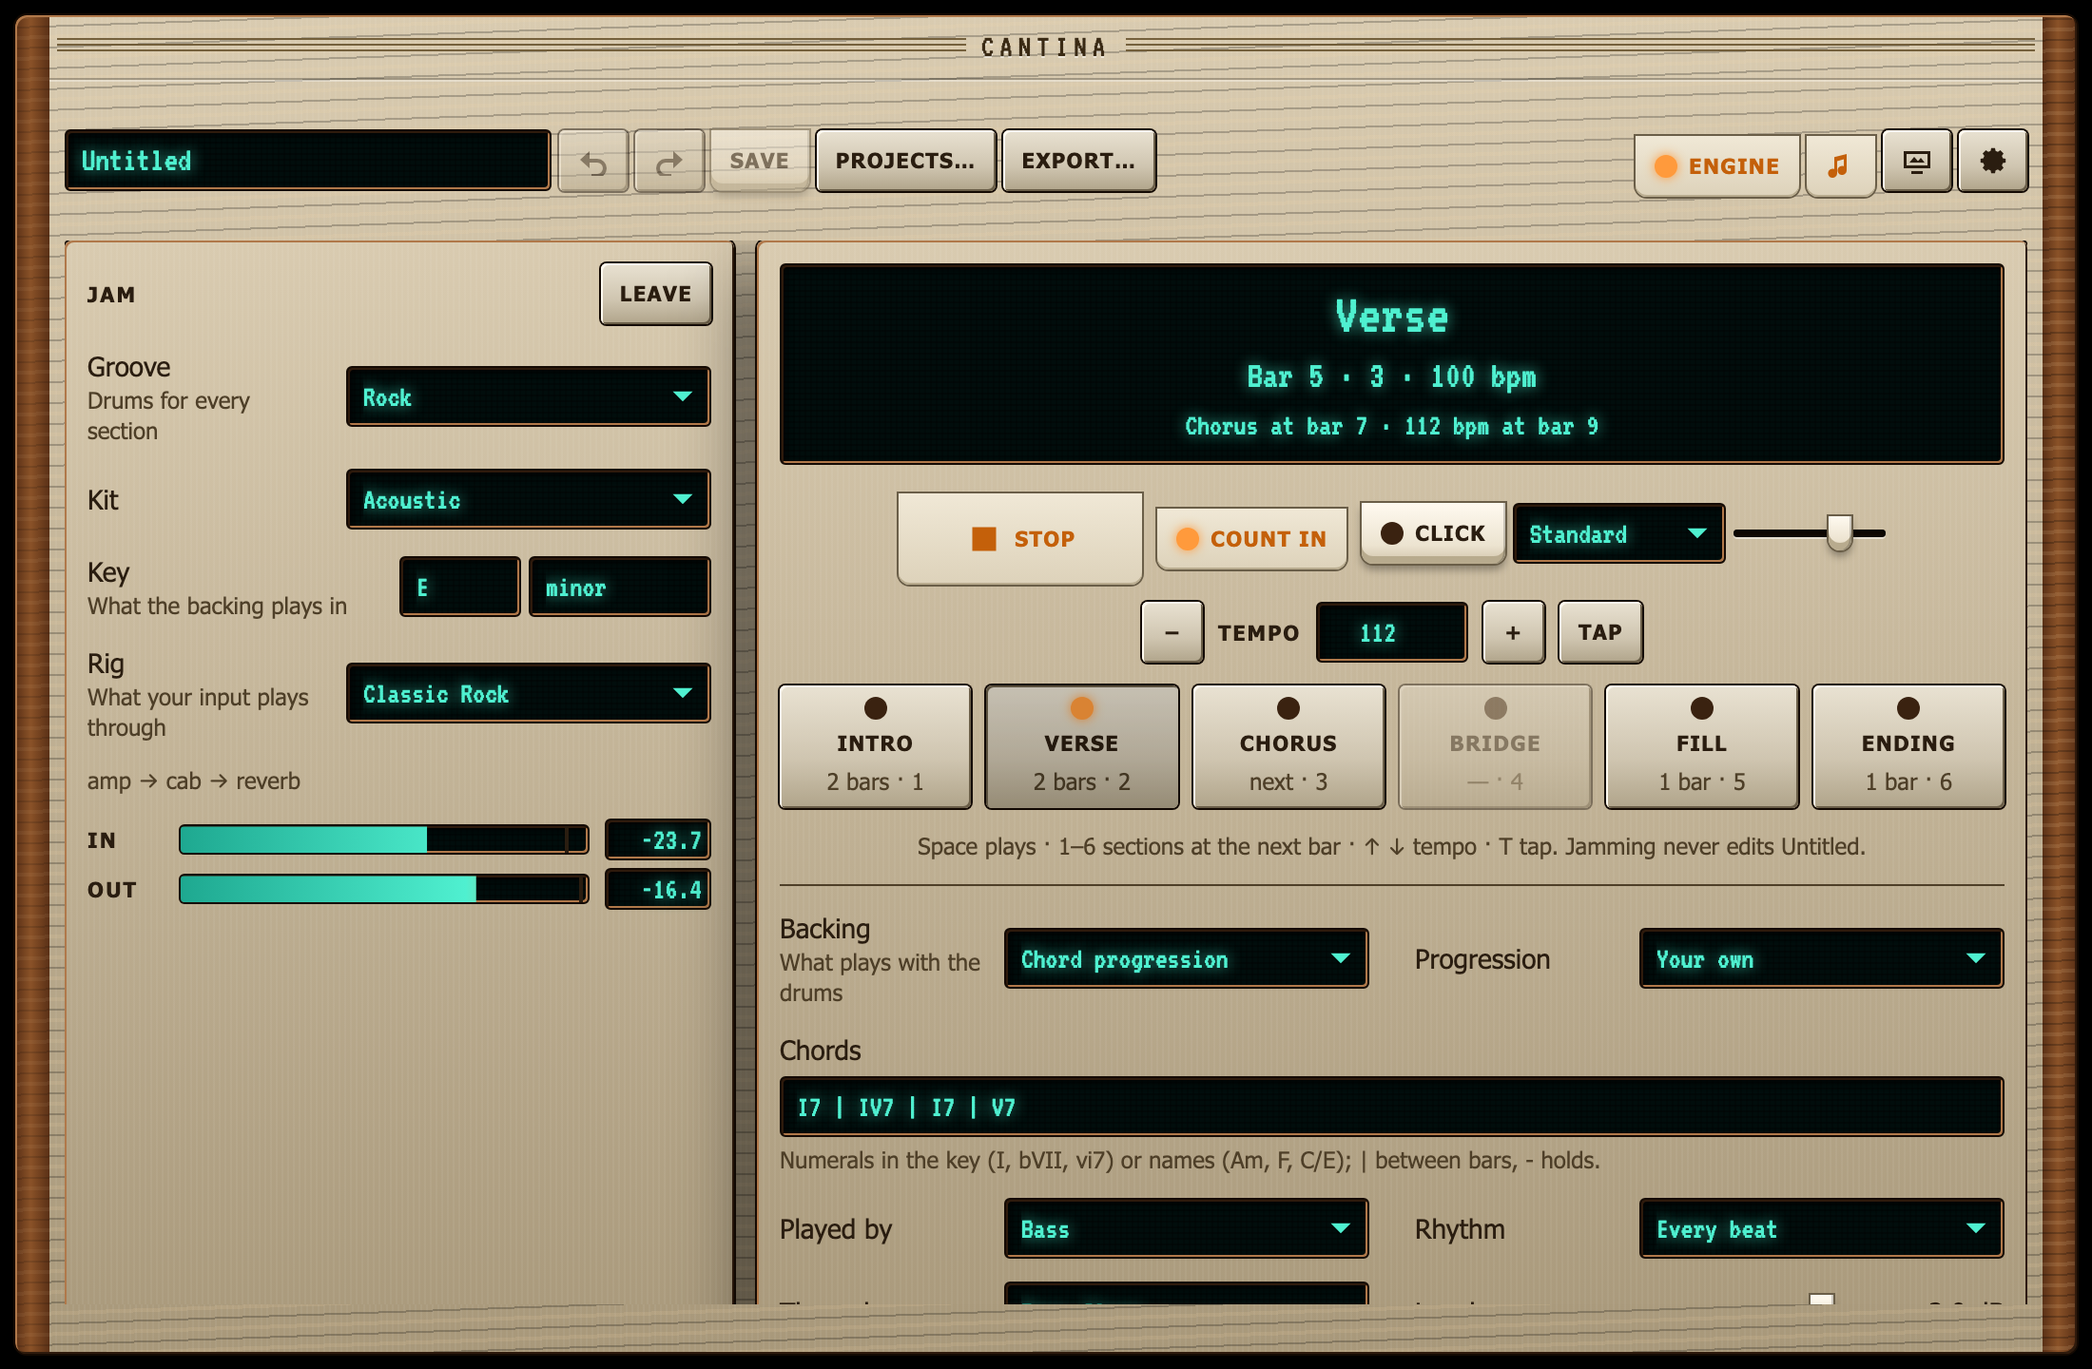
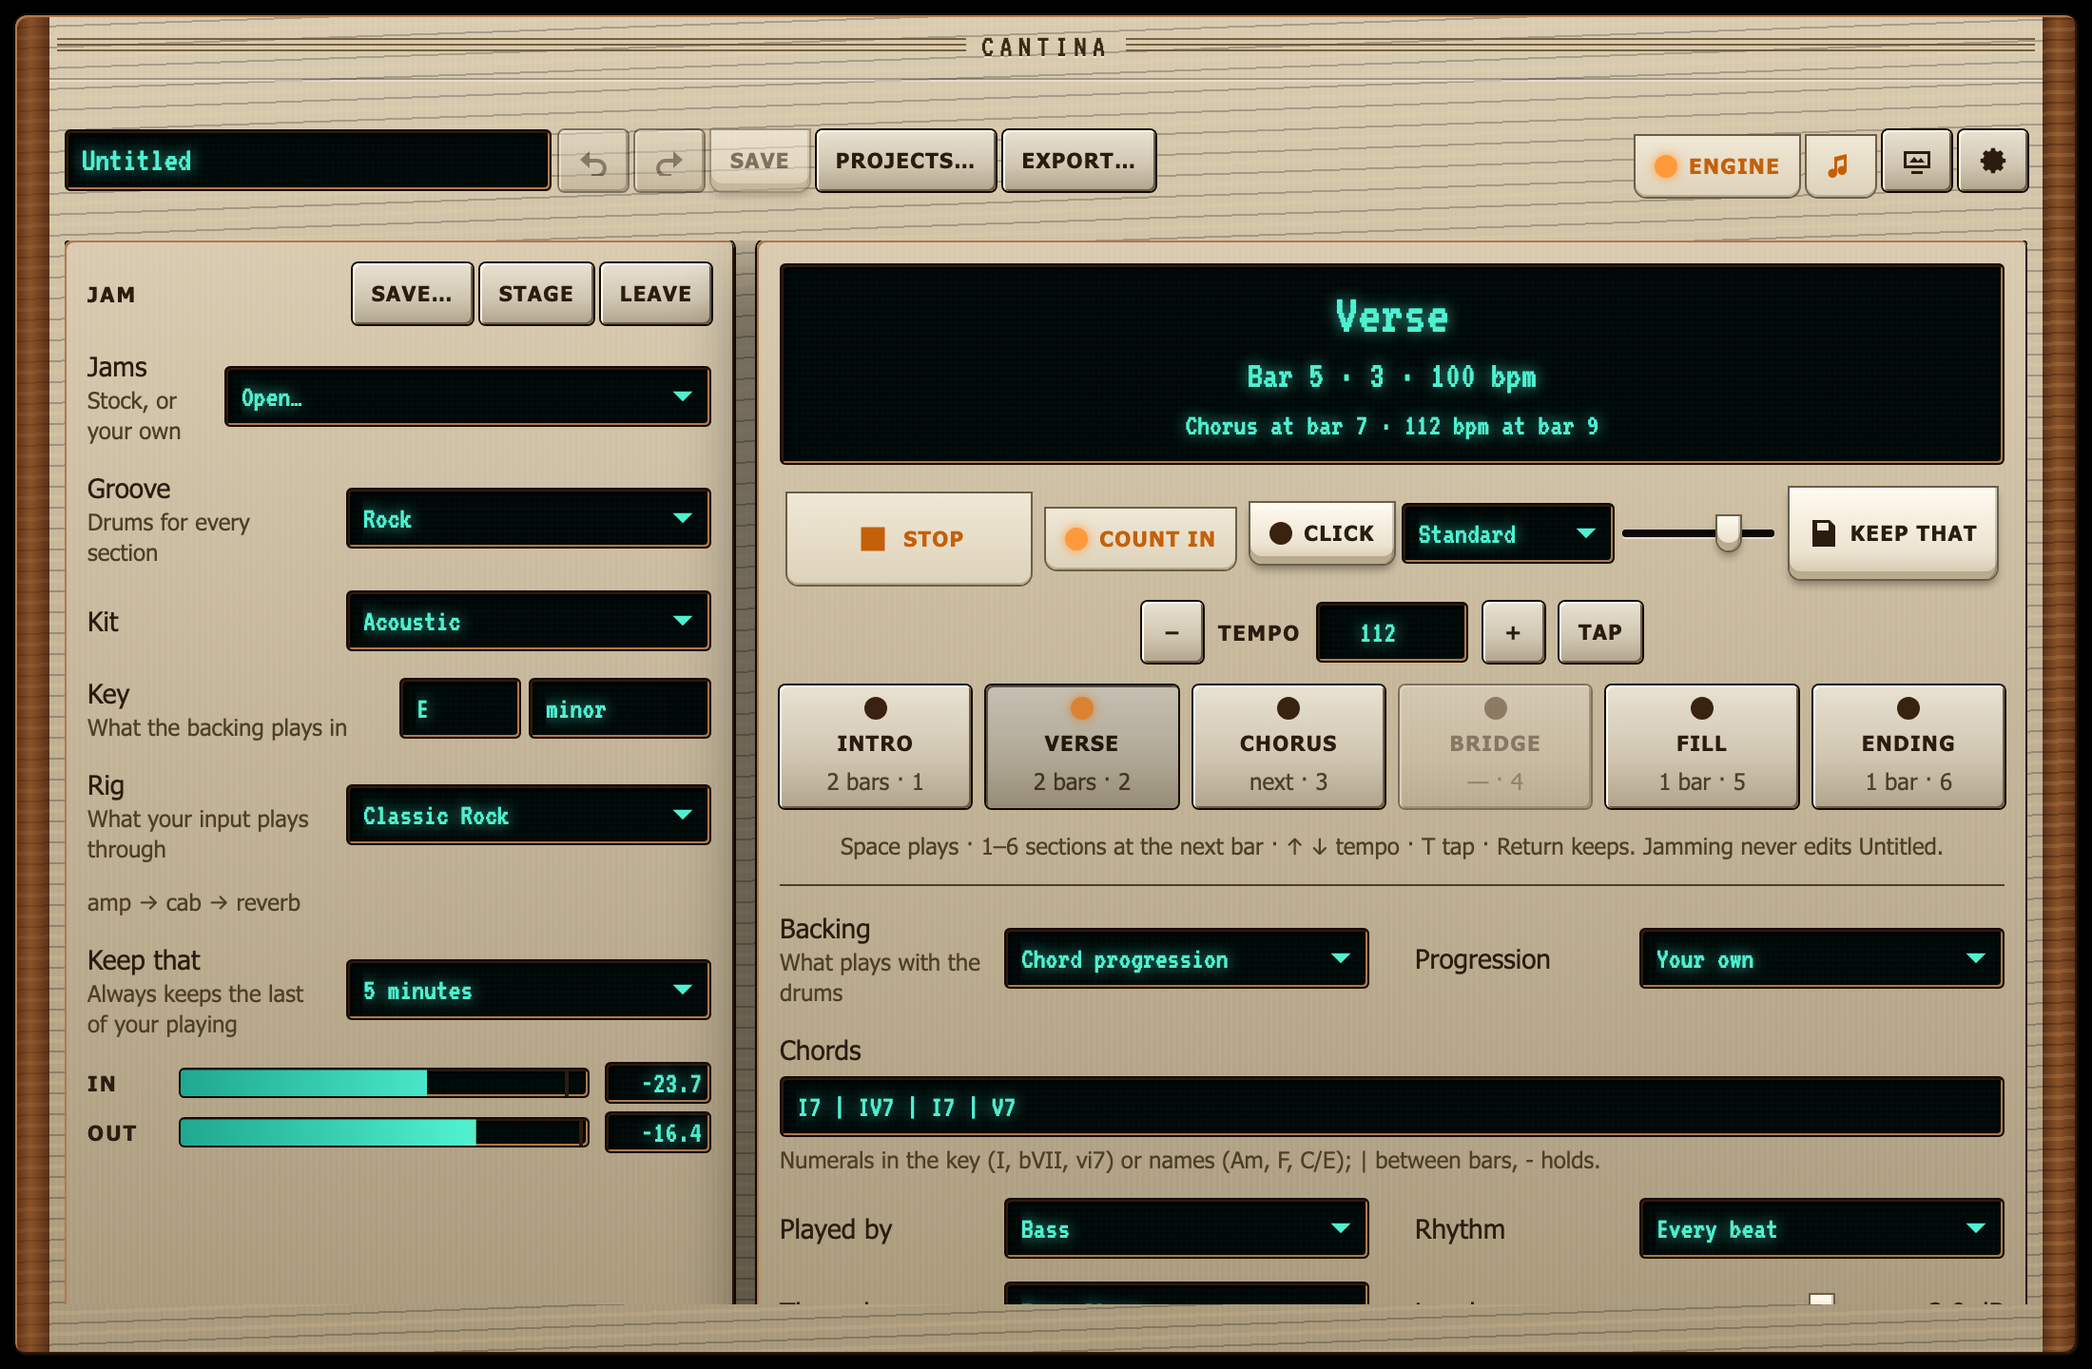
docs(jam): the jam guide, finished (#200) (#256)
* feat(jam): jam on stage (#199)

Performance mode from the Jam view (Stage, or P) shows the jam's
controls over the scene in place of the pedalboard: play, where the jam
is and what is coming, the sections and the tempo. The Jam view's keys
keep working underneath; arrows and number keys are not taken by the
stage while jamming. Scenes pulse on the jam's beat, which the pump
reads from the same tempo map the jam hands the transport; a test
shows the beat lands on every beat to within a sample through a tempo
change. The stand-in's beat follows the jam too.

Claude-Session: https://claude.ai/code/session_01Weyxkote2xscWSN2LNQZGG

* docs(jam): the jam guide, finished (#200)

The guide in the order a player meets jam mode: opening it, a first
jam in six steps, setting it up, playing, sections, tempo, backing and
chord progressions, saving and opening jams with the stock jams by
name, Keep that, jam on stage, and every key in one table. Both Jam
view screenshots are retaken on the finished view. Getting started,
the drums guide and the rigs guide point to it.

Claude-Session: https://claude.ai/code/session_01Weyxkote2xscWSN2LNQZGG

* docs(jam): put back the guide's front matter

Claude-Session: https://claude.ai/code/session_01Weyxkote2xscWSN2LNQZGG

---------

Changed region(s): [[0.0309, 0.1875, 0.34, 0.8438], [0.3709, 0.3438, 0.9582, 0.4375], [0.4018, 0.5938, 0.9273, 0.625]]

diff --git a/docs/src/content/docs/guides/jam.md b/docs/src/content/docs/guides/jam.md
@@ -4,9 +4,10 @@ description: "Jam mode is a practice room, on stage too: stock jams and your own
 ---
 
 Practising should not mean setting up a project, tracks and clips. Jam
-mode is a room of its own: pick a groove, something to play over, a
-tempo, the key and the rig you play through, press **Play** and jam. It goes on until you stop it,
-and you change section and tempo as you go without stopping.
+mode is a room of its own: drums, something to play over, a tempo, a key
+and the rig you play through. Press **Play** and it goes on until you
+stop it; change section and tempo as you go, and when you play something
+worth having, **Keep that** saves the last minutes you played.
 
 Jamming never edits the project. The jam is heard *instead of* the
 project while it is open, and when you leave, the project is heard again
@@ -15,11 +16,24 @@ with its playhead where it was.
 ## Opening it
 
 Press the **Jam** button (the note) in the title bar, choose
-**View ▸ Jam**, or press **J**. Press **Leave**, **J** again or choose
-**View ▸ Arrange** to go back to the project. The jam you had last comes
+**View ▸ Jam**, or press **J**. **Leave**, **J** again or
+**View ▸ Arrange** goes back to the project. The jam you had last comes
 back the next time you open it, tempo and all.
 
-![The Jam view: groove, kit, key and rig on the left with the meters; the display, play, count-in and click, tempo, the six sections and the backing on the right](../../../assets/guides/jam.png)
+![The Jam view: the jams, groove, kit, key, rig and Keep that length on the left with the meters; the display, play, count-in, click, Keep that, tempo, the six sections and the backing on the right](../../../assets/guides/jam.png)
+
+## A first jam
+
+1. Open the **Jams** list at the top and pick a stock jam for a style
+   you play, say *Blues in A*. It sets the drums, a bass playing the
+   changes, the tempo, the key and a rig for your guitar.
+2. Press **Play** (or **Space**). With **Count in** on, the click counts
+   a bar, the intro plays, and the verse goes round.
+3. Press **3** for the chorus, **5** for a fill, **2** for the verse
+   again: each lands on the next bar line.
+4. Nudge the tempo with **↑** and **↓**.
+5. Played something good? Press **Return** to keep it.
+6. **6** plays the ending and stops.
 
 ## Setting it up
 
@@ -38,47 +52,50 @@ back the next time you open it, tempo and all.
 
 The meters show your input and what comes out.
 
-## Jams: saving and opening
+## Playing
 
-The **Jams** list at the top opens a jam: one of the stock jams, a
-groove, a backing, a tempo, a key and a rig for each common style, or
-one of yours. Opening one replaces the jam playing; the music goes on,
-with a new tempo from the next bar.
+**Play** (or **Space**) starts the jam from the top: from the intro when
+the groove has one, then the verse. With **Count in** on, the click
+counts a bar first. **Click** turns the metronome on for the whole jam.
+**Stop** (or **Space** again) stops and goes back to the top.
 
-**Save…** writes the jam as it is (groove, backing, progression, tempo,
-key and rig) to `~/Music/Cantina/Jams/<name>.jam.json` with a name, a
-genre and a line on it. It then shows under *Yours*. Saving under a
-name you already have replaces that jam; the stock jams are never
-changed. A jam file dropped into that folder appears in the list within
-a second, and one that does not load is listed with the reason, as
-other library files are. The [jam format](/reference/jam-format/)
-describes the file, so you, or a [coding agent](/guides/agents/), can
-write one.
+![Jamming in the Hi-fi skin with a bass playing a blues: the verse at bar 5, the chorus coming at bar 7 and 112 bpm at bar 9](../../../assets/guides/jam-playing.png)
 
-![Save jam, with a name, genre and description, in the Toxic skin](../../../assets/guides/jam-save.png)
+The display shows the section playing, the bar and beat, the tempo, and
+what is coming: a section or a tempo you asked for, and the bar it lands
+on.
 
-The stock jams:
+## Sections
 
-| Jam | Groove | Tempo | Key | Rig | Backing |
-| --- | --- | --- | --- | --- | --- |
-| Alternative in G | Alternative | 112 | G major | alternative | guitar, `I \| V \| vi \| IV` |
-| Grunge in E | Grunge | 100 | E minor | grunge | bass, `i \| bIII \| bVII \| IV` |
-| Slow Burn in D | Half-time | 80 | D minor | shoegaze | guitar, `i \| bVI \| bIII \| bVII` |
-| Blues in A | Blues shuffle | 96 | A major | blues | bass, the 12-bar blues |
-| Minor Blues in E | Blues shuffle | 78 | E minor | blues | bass, the minor blues |
-| Country in G | Rock | 112 | G major | country | bass, `I \| IV \| I \| V` |
-| Funk in E | Funk | 100 | E minor | funk-clean | bass, `i7 \| i7 \| IV7 \| IV7` |
-| Hip-hop in C | Hip-hop | 90 | C minor | jazz-clean | bass, `i7 \| bVImaj7 \| iv7 \| V7` |
-| Jazz in B♭ | Jazz | 140 | B♭ major | jazz-clean | bass, `ii7 \| V7 \| Imaj7 \| Imaj7` |
-| Djent in B | Djent | 120 | B minor | djent | bass, `i5 \| i5 \| bII5 \| i5` |
-| Heavy Metal in E | Heavy metal | 152 | E minor | heavy-metal | bass, `i5 \| bVI5 \| bVII5 \| i5` |
-| Metalcore in D | Metalcore | 140 | D minor | metalcore | bass, `i5 \| bVI5 \| bIII5 \| bVII5` |
-| Thrash in E | Thrash | 200 | E minor | thrash | bass, `i5 \| i5 \| bII5 \| i5` |
-| Pop in C | Pop | 108 | C major | alternative | guitar, `I \| V \| vi \| IV` |
-| Punk in D | Punk | 184 | D major | punk | bass, `I5 \| IV5 \| V5 \| IV5` |
-| Reggae in A | Reggae | 76 | A major | funk-clean | bass, `I \| IV \| I \| V` |
-| Hard Rock in A | Hard rock | 132 | A major | hard-rock | bass, `I5 \| I5 \| bVII5 \| IV5` |
-| Rock in E | Rock | 120 | E major | classic-rock | bass, `I \| bVII \| IV \| I` |
+Press a section, or a number key, to play it from the next bar:
+
+| Key | Section | Plays |
+| --- | --- | --- |
+| 1 | Intro | Once, then the verse |
+| 2 | Verse | Round and round |
+| 3 | Chorus | Round and round |
+| 4 | Bridge | Round and round |
+| 5 | Fill | Once, then back to the section it interrupted |
+| 6 | Ending | Once, then the jam stops |
+
+The change lands exactly on the bar line, to the sample, however close
+to it you press, as long as there is a moment to spare: pressed in the
+last few hundredths of a second of a bar, it waits for the bar after.
+Pressing another section before the bar arrives replaces the one that
+was coming. A section the groove has no pattern for is greyed out.
+
+While stopped, pressing a section makes the jam start with it, and so
+does pressing one during the count-in, up to its last beat.
+
+## Tempo
+
+**−** and **+** (or **↓** and **↑**) nudge the tempo a beat per minute;
+with **⇧** by five. Type a tempo into the field, or press **Tap** (or
+**T**) on the beat: two taps or more set it, and a pause of two seconds
+starts a new count. While the jam plays, a new tempo lands on the next
+bar line, like a section. The drums, a chord backing and the click
+follow it at once and nothing clicks. With an audio backing the tempo
+is the backing's.
 
 ## Backing
 
@@ -151,50 +168,47 @@ The presets:
 | Hip-hop | Minor loop |
 | Country | I–IV–I–V |
 
-## Playing
+## Jams: saving and opening
 
-**Play** (or **Space**) starts the jam from the top: from the intro when
-the groove has one, then the verse. With **Count in** on, the click
-counts a bar first. **Click** turns the metronome on for the whole jam.
-**Stop** (or **Space** again) stops and goes back to the top.
+The **Jams** list at the top opens a jam: one of the stock jams, a
+groove, a backing, a tempo, a key and a rig for each common style, or
+one of yours. Opening one replaces the jam playing; the music goes on,
+with a new tempo from the next bar.
 
-![Jamming in the Hi-fi skin with a bass playing a blues: the verse at bar 5, the chorus coming at bar 7 and 112 bpm at bar 9](../../../assets/guides/jam-playing.png)
+**Save…** writes the jam as it is (groove, backing, progression, tempo,
+key and rig) to `~/Music/Cantina/Jams/<name>.jam.json` with a name, a
+genre and a line on it. It then shows under *Yours*. Saving under a
+name you already have replaces that jam; the stock jams are never
+changed. A jam file dropped into that folder appears in the list within
+a second, and one that does not load is listed with the reason, as
+other library files are. The [jam format](/reference/jam-format/)
+describes the file, so you, or a [coding agent](/guides/agents/), can
+write one.
 
-The display shows the section playing, the bar and beat, the tempo, and
-what is coming: a section or a tempo you asked for, and the bar it lands
-on.
+![Save jam, with a name, genre and description, in the Toxic skin](../../../assets/guides/jam-save.png)
 
-## Sections
+The stock jams:
 
-Press a section, or a number key, to play it from the next bar:
-
-| Key | Section | Plays |
-| --- | --- | --- |
-| 1 | Intro | Once, then the verse |
-| 2 | Verse | Round and round |
-| 3 | Chorus | Round and round |
-| 4 | Bridge | Round and round |
-| 5 | Fill | Once, then back to the section it interrupted |
-| 6 | Ending | Once, then the jam stops |
-
-The change lands exactly on the bar line, to the sample, however close
-to it you press, as long as there is a moment to spare: pressed in the
-last few hundredths of a second of a bar, it waits for the bar after.
-Pressing another section before the bar arrives replaces the one that
-was coming. A section the groove has no pattern for is greyed out.
-
-While stopped, pressing a section makes the jam start with it, and so
-does pressing one during the count-in, up to its last beat.
-
-## Tempo
-
-**−** and **+** (or **↓** and **↑**) nudge the tempo a beat per minute;
-with **⇧** by five. Type a tempo into the field, or press **Tap** (or
-**T**) on the beat: two taps or more set it, and a pause of two seconds
-starts a new count. While the jam plays, a new tempo lands on the next
-bar line, like a section. The drums, a chord backing and the click
-follow it at once and nothing clicks. With an audio backing the tempo
-is the backing's.
+| Jam | Style | Groove | Tempo | Key | Rig | Backing |
+| --- | --- | --- | --- | --- | --- | --- |
+| Alternative in G | Alternative | Alternative | 112 | G major | alternative | guitar, `I \| V \| vi \| IV` |
+| Blues in A | Blues | Blues shuffle | 96 | A major | blues | bass, the 12-bar blues |
+| Country in G | Country | Rock | 112 | G major | country | bass, `I \| IV \| I \| V` |
+| Djent in B | Metal | Djent | 120 | B minor | djent | bass, `i5 \| i5 \| bII5 \| i5` |
+| Funk in E | Funk | Funk | 100 | E minor | funk-clean | bass, `i7 \| i7 \| IV7 \| IV7` |
+| Grunge in E | Alternative | Grunge | 100 | E minor | grunge | bass, `i \| bIII \| bVII \| IV` |
+| Hard Rock in A | Rock | Hard rock | 132 | A major | hard-rock | bass, `I5 \| I5 \| bVII5 \| IV5` |
+| Heavy Metal in E | Metal | Heavy metal | 152 | E minor | heavy-metal | bass, `i5 \| bVI5 \| bVII5 \| i5` |
+| Hip-hop in C | Hip-hop | Hip-hop | 90 | C minor | jazz-clean | bass, `i7 \| bVImaj7 \| iv7 \| V7` |
+| Jazz in B♭ | Jazz | Jazz | 140 | B♭ major | jazz-clean | bass, `ii7 \| V7 \| Imaj7 \| Imaj7` |
+| Metalcore in D | Metal | Metalcore | 140 | D minor | metalcore | bass, `i5 \| bVI5 \| bIII5 \| bVII5` |
+| Minor Blues in E | Blues | Blues shuffle | 78 | E minor | blues | bass, the minor blues |
+| Pop in C | Pop | Pop | 108 | C major | alternative | guitar, `I \| V \| vi \| IV` |
+| Punk in D | Punk | Punk | 184 | D major | punk | bass, `I5 \| IV5 \| V5 \| IV5` |
+| Reggae in A | Reggae | Reggae | 76 | A major | funk-clean | bass, `I \| IV \| I \| V` |
+| Rock in E | Rock | Rock | 120 | E major | classic-rock | bass, `I \| bVII \| IV \| I` |
+| Slow Burn in D | Alternative | Half-time | 80 | D minor | shoegaze | guitar, `i \| bVI \| bIII \| bVII` |
+| Thrash in E | Metal | Thrash | 200 | E minor | thrash | bass, `i5 \| i5 \| bII5 \| i5` |
 
 ## Keep that
 
@@ -219,11 +233,11 @@ files in `~/Music/Cantina/Jams/Takes`: `Jam-1.wav`, the dry take, and
     played under the take, their patterns added to the project.
 
   The take lines up with the drums on the project's bars. An empty
-  project takes the jam's tempo and the take starts at bar 1; a project
-  with music in it keeps its tempo, and the take goes after its last bar.
-  A project has one tempo, the one the jam ended at: a take that spans a
-  tempo change lines up where it starts and drifts from the bars after
-  the change.
+  project takes the tempo the jam ended at and the take starts at bar 1;
+  a project with music in it keeps its own tempo, and the take goes after
+  its last bar. A project has one tempo, so a take that spans one of the
+  jam's tempo changes lines up where it starts and drifts from the bars
+  after the change.
 - **Just keep the files**: the take stays in `Jams/Takes` and nothing
   else changes.
 
@@ -240,6 +254,20 @@ beat through a tempo change. **Esc** comes back to the Jam view.
 
 ![Jamming on stage in the Neon skin: the warp tunnel scene with play, the chorus at bar 24, the tempo and the six sections over it](../../../assets/guides/jam-stage.png)
 
-Keyboard shortcuts work anywhere in the view outside a text field or a
-menu; they are listed in [keyboard shortcuts](/reference/shortcuts/).
-MIDI control of sections and tempo is not there yet.
+## Keys
+
+These work anywhere in the Jam view, and on stage, outside a text field
+or a menu. They are also in [keyboard shortcuts](/reference/shortcuts/).
+
+| Key | Does |
+| --- | --- |
+| Space | Plays the jam from the top, or stops it |
+| 1–6 | Intro, verse, chorus, bridge, fill or ending from the next bar |
+| ↑ ↓ | The tempo a beat per minute up or down from the next bar; with ⇧ by five |
+| T | Taps the tempo |
+| Return | Keep that |
+| P | The jam on stage |
+| J | Leaves the jam |
+
+MIDI control of sections and tempo is not there yet: there is no MIDI
+input in Cantina so far.

diff --git a/docs/src/content/docs/guides/drums.md b/docs/src/content/docs/guides/drums.md
@@ -56,7 +56,9 @@ as a [kit recipe](/reference/kit-format/#kit-recipes) and let
 ## Stock grooves
 
 Cantina comes with 87 grooves in 17 genres, so a drum track can play
-something good straight away. They are in the **Pattern** menu, under
+something good straight away. To play along with a genre's grooves without
+setting up a track, open a [jam](/guides/jam/): its sections are the
+genre's intro, verse, chorus, fill and ending. They are in the **Pattern** menu, under
 **Add a groove**, one group per genre, with the tempos each suits, and in the groove
 browser below. Choosing
 one copies it into the project as a pattern of its own, which you can then

diff --git a/docs/src/content/docs/guides/getting-started.md b/docs/src/content/docs/guides/getting-started.md
@@ -135,4 +135,6 @@ WAV files; [Menus](/guides/menus/) lists every item.
   the timeline.
 - [Drums](/guides/drums/): add a drum track and program a beat.
 - [Designing pedals](/guides/designer/): build your own pedal from parts.
+- [Jam](/guides/jam/): drums and a backing to play along with, without a
+  project; keep the riff you just played.
 - [The stage](/guides/stage/): visualizer scenes and performance mode.

diff --git a/docs/src/content/docs/guides/rigs.md b/docs/src/content/docs/guides/rigs.md
@@ -106,6 +106,9 @@ its id: the person you share with needs the pedal file too, so save it to
 your library and send both. Cantina reminds you when a rig uses a design
 only the project has.
 
+A [jam](/guides/jam/) plays your input through a rig too, and its chord
+backing through another, both picked by name.
+
 ## The stock rigs
 
 Every stock rig is leveled against the same DI, so switching from one to
